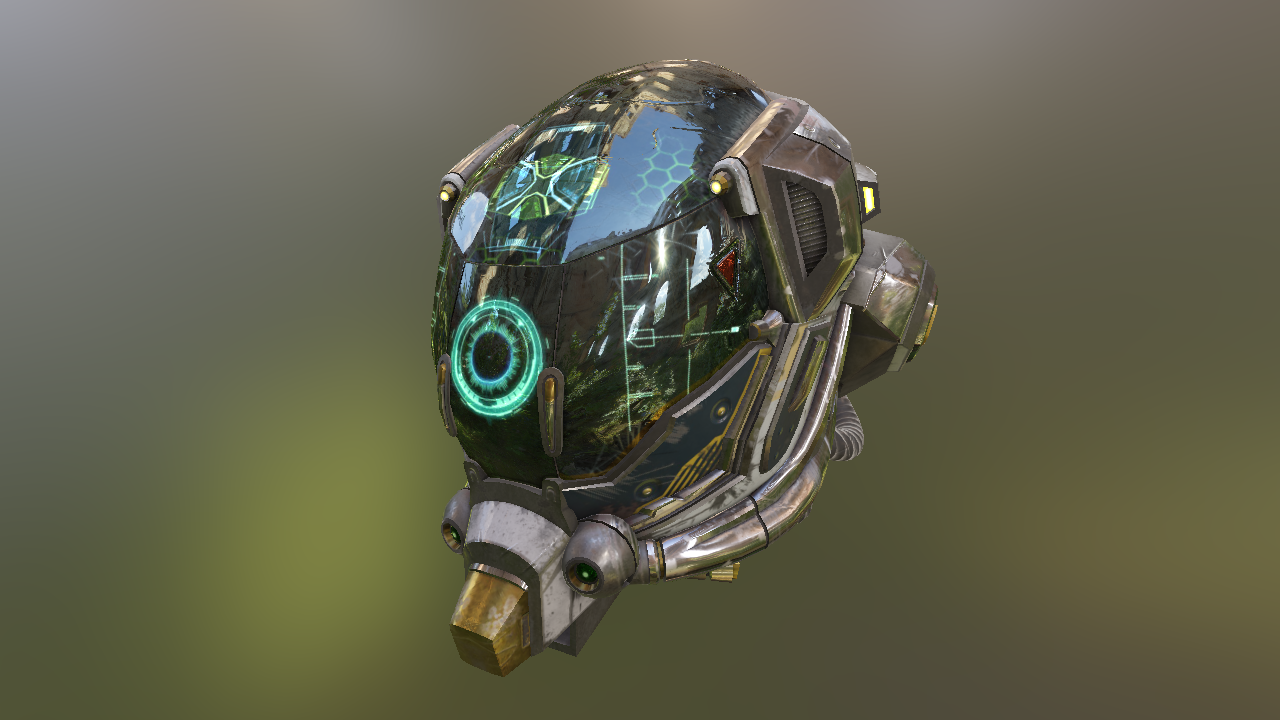
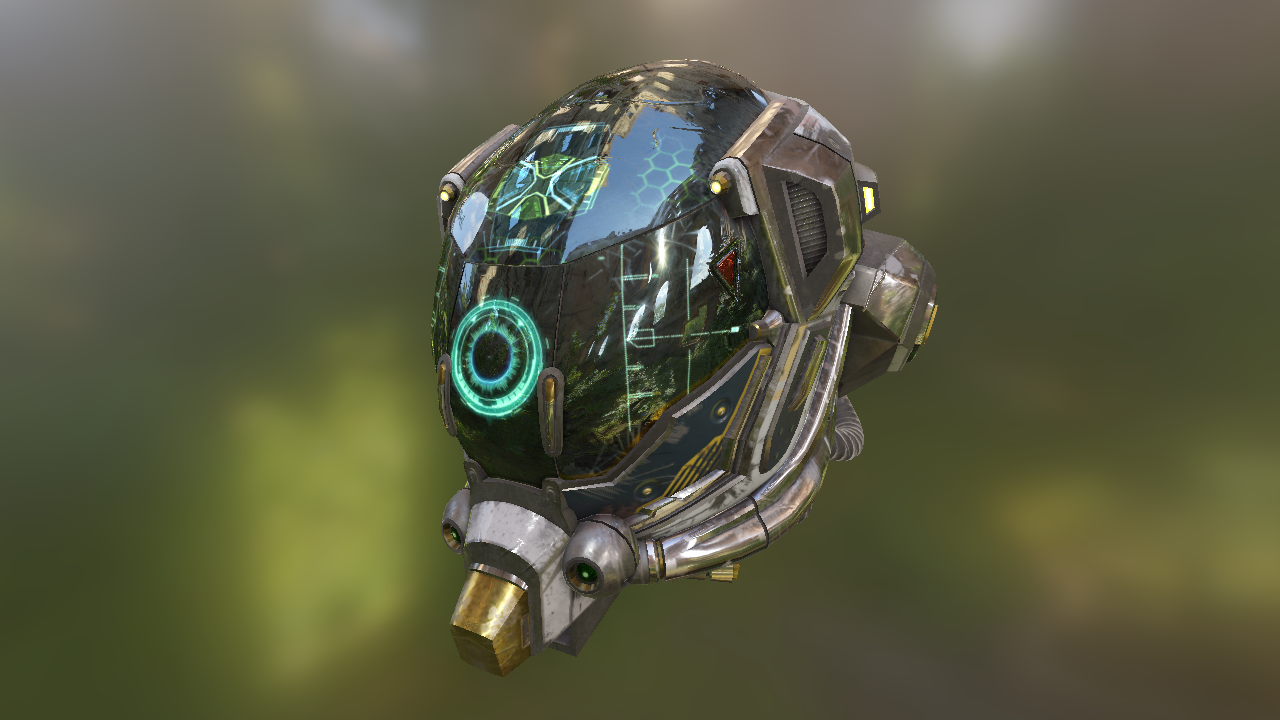
Skybox detail, ligh setup

diff --git a/src/main.cpp b/src/main.cpp
@@ -151,6 +151,7 @@ public:
 		title = "Vulkan glTf 2.0 PBR";
 		camera.type = Camera::CameraType::firstperson;
 		camera.movementSpeed = 4.0f;
+		camera.movementSpeed = 2.0f;
 		camera.setPerspective(60.0f, (float)width / (float)height, 0.1f, 256.0f);
 		camera.rotationSpeed = 0.25f;
 		camera.setRotation({ -12.0f, 152.0f, 0.0f });
@@ -1345,7 +1346,7 @@ public:
 
 	void updateParams()
 	{
-		uboParams.lightDir = glm::vec4(0.0f, -0.5f, 0.5f, 1.0f);
+		uboParams.lightDir = glm::vec4(0.0f, -0.5f, -0.5f, 1.0f);
 		memcpy(uniformBuffers.params.mapped, &uboParams, sizeof(uboParams));
 	}
 
